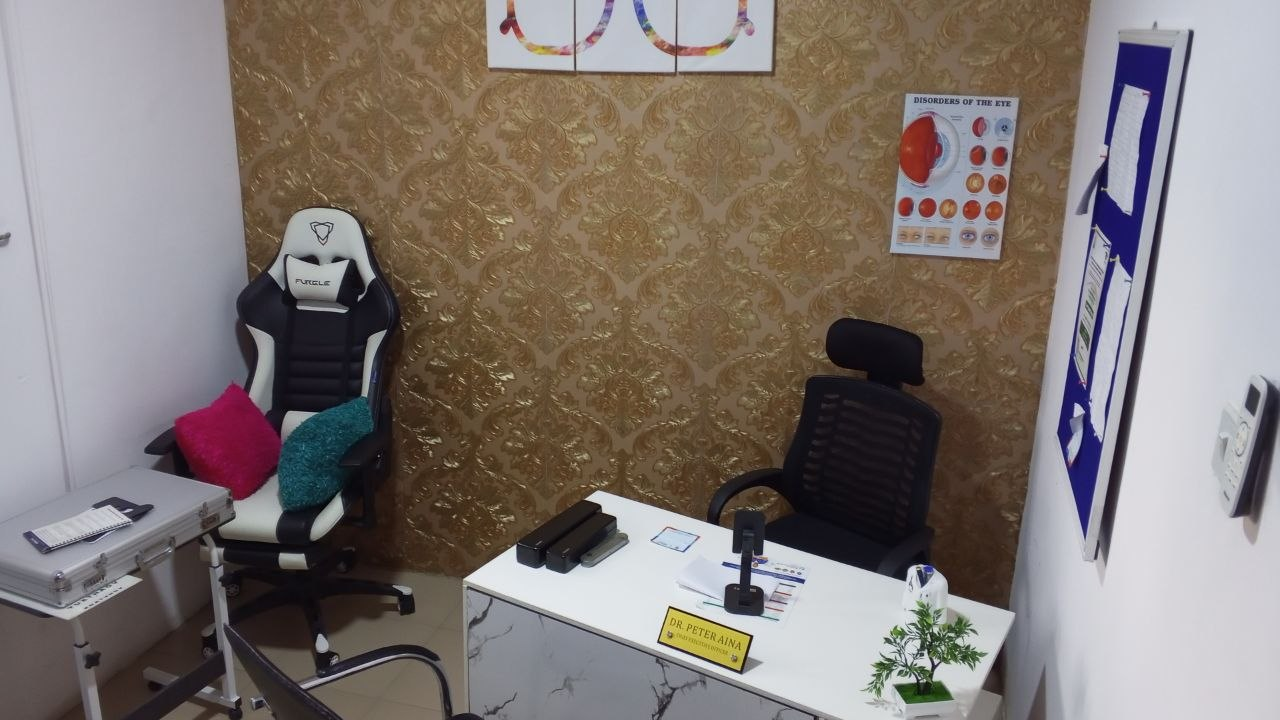
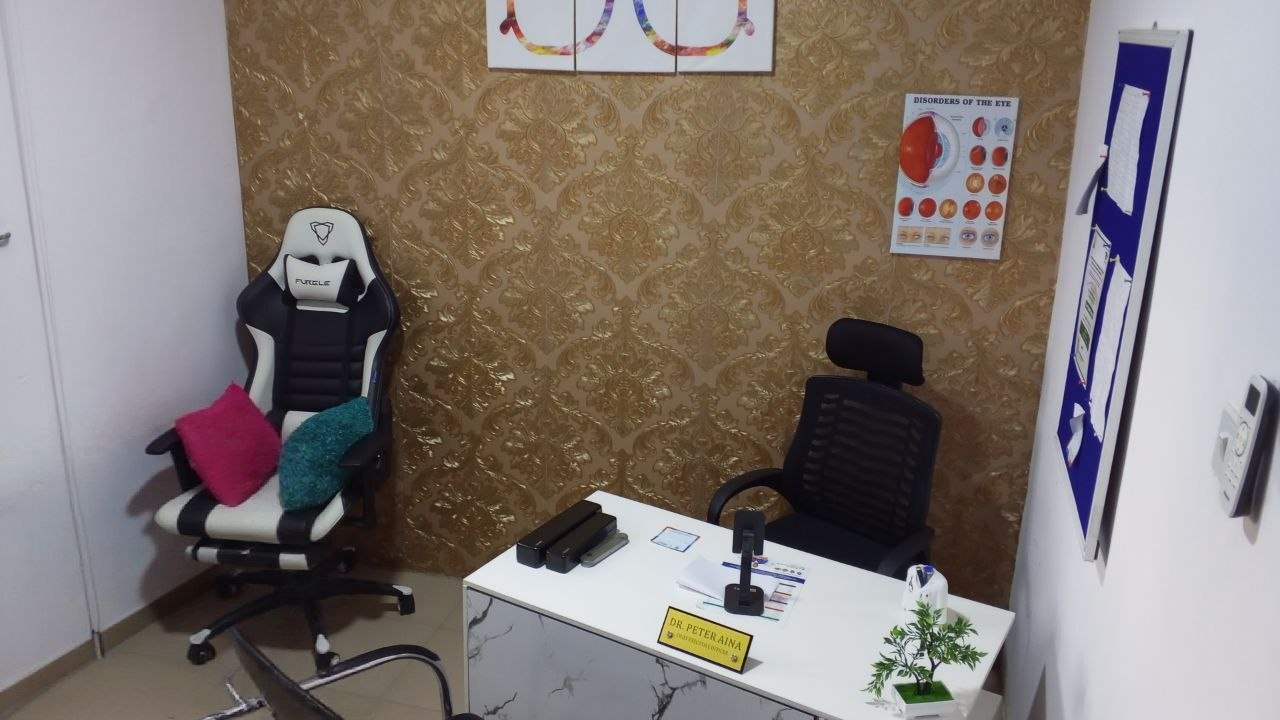
update

Changed region(s): [[0.0, 0.6111, 0.2188, 1.0], [0.25, 0.9167, 0.2812, 0.9472]]

diff --git a/index.html b/index.html
@@ -962,6 +962,26 @@
       background: var(--navy-light);
     }
 
+    .linkedin-follow {
+      display: inline-flex;
+      align-items: center;
+      gap: 6px;
+      background: var(--white);
+      color: var(--navy);
+      padding: 0.7rem 1.6rem;
+      border-radius: 30px;
+      font-size: 0.84rem;
+      font-weight: 600;
+      text-decoration: none;
+      transition: background 0.2s, transform 0.2s;
+      border-bottom: 2px solid var(--gold);
+    }
+
+    .linkedin-follow:hover {
+      background: var(--off-white);
+      transform: translateY(-1.2px);
+    }
+
     /* ─── EYEWEAR ─── */
     #eyewear {
       background: var(--off-white);
@@ -1571,7 +1591,7 @@
       </h1>
       <p class="hero-sub">
         At Eye Ambassadors Clinic, your vision is managed directly by Dr. Peter Aina.
-        <strong>With over ten years of experience in diagnostic and corrective optometry,</strong>
+        <strong>With over ten years of experience in eye care,</strong>
         Dr. Aina provides a seamless, one-on-one experience that merges professional-grade
         clinical care with genuine community commitment.
       </p>
@@ -1867,6 +1887,14 @@
         <a href="https://www.linkedin.com/posts/drpeteraina_ar-eyetech-ar-activity-6644519860527218689-Fuzg?utm_source=social_share_video_v2&utm_medium=android_app&rcm=ACoAACNrInAB9nl2Kla8Xdhp9xQ7UHCtOxs7JNg&utm_campaign=whatsapp"
           target="_blank" class="know-cta">Discover More →</a>
       </div>
+    </div>
+    <div style="text-align: center; margin-top: 3.5rem;" class="fade-up">
+      <a href="https://www.linkedin.com/in/drpeteraina/" target="_blank" rel="noopener" class="linkedin-follow">
+        <svg width="16" height="16" viewBox="0 0 24 24" fill="currentColor">
+          <path d="M19 0h-14c-2.761 0-5 2.239-5 5v14c0 2.761 2.239 5 5 5h14c2.762 0 5-2.239 5-5v-14c0-2.761-2.238-5-5-5zm-11 19h-3v-11h3v11zm-1.5-12.268c-.966 0-1.75-.779-1.75-1.75s.784-1.75 1.75-1.75 1.75.779 1.75 1.75-.784 1.75-1.75 1.75zm13.5 12.268h-3v-5.604c0-3.368-4-3.113-4 0v5.604h-3v-11h3v1.765c1.396-2.586 7-2.777 7 2.476v6.759z"/>
+        </svg>
+        Follow on LinkedIn
+      </a>
     </div>
   </section>
 
